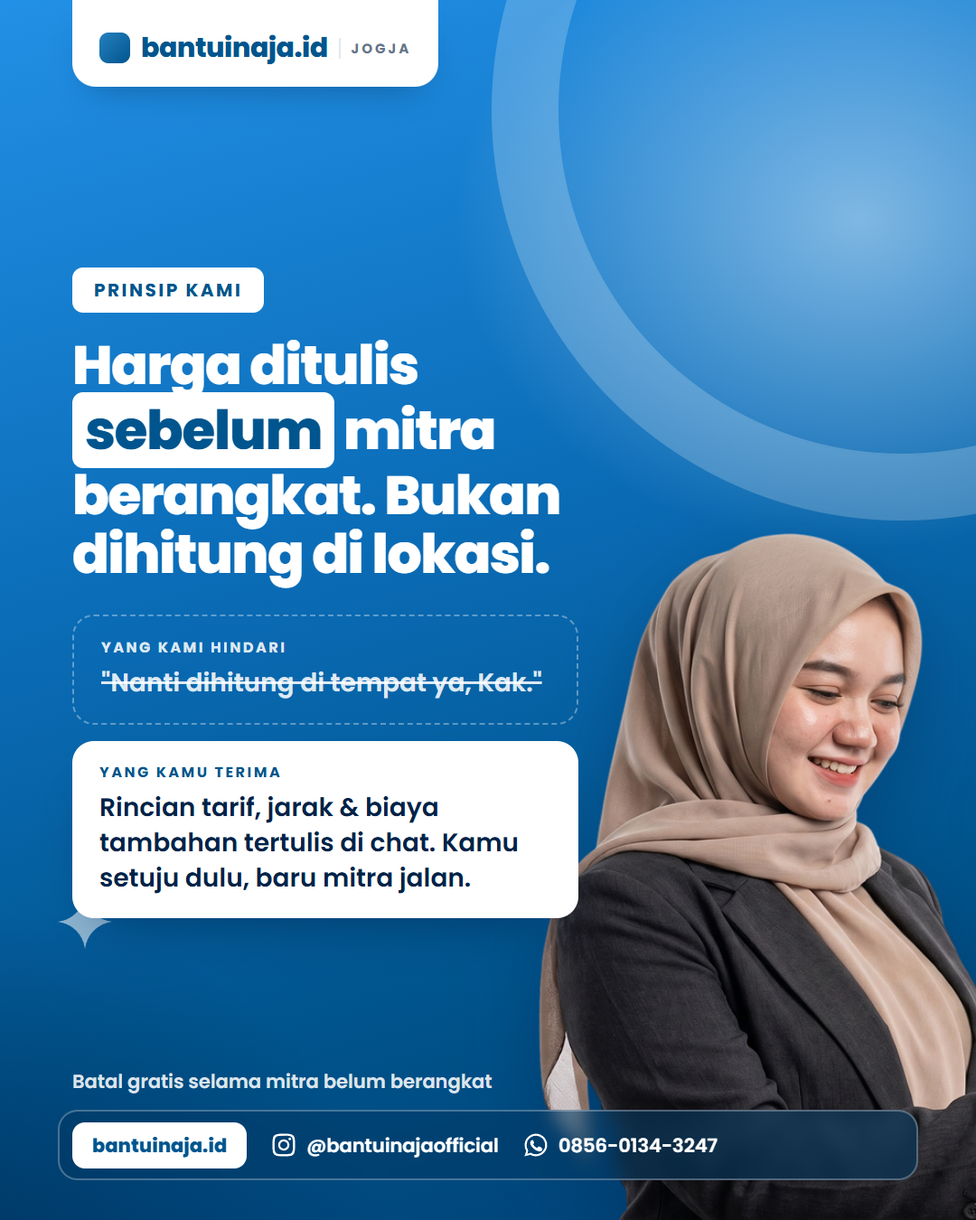
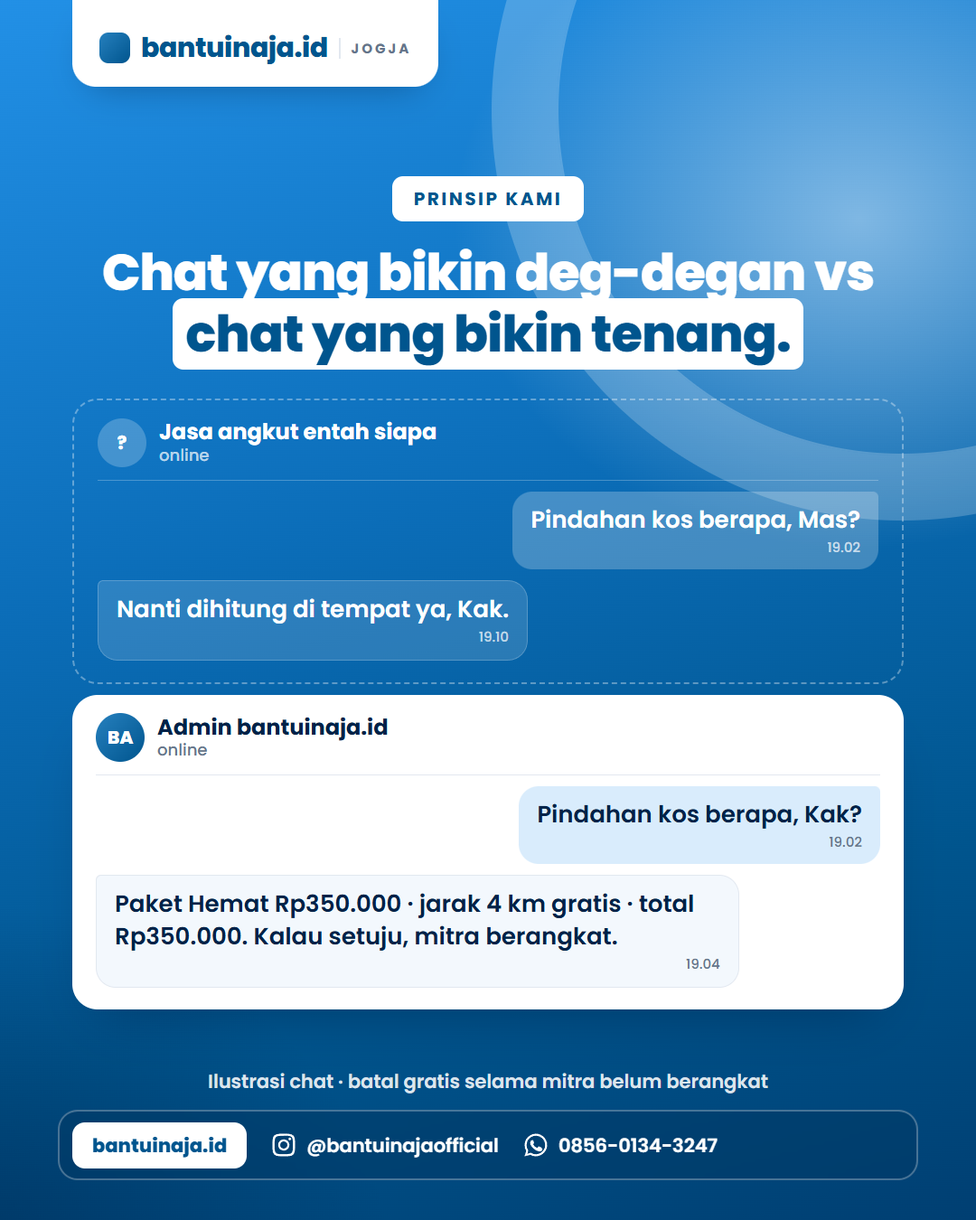
Adapt November feed to Lalamove content patterns; add 1-slide loker
- Replace post 02 with a relatable chat meme and post 13 with a
  comment poll; old versions kept as _cadangan backups
- Redesign post 09 as a two-chat comparison
- Shorten all captions with a comment prompt and #bantuinaja first
- Add riset-lalamove.md and a README section on what was adopted
- Add single-slide freelance recruitment post (_ekstra_Loker-Mitra-1-Slide)

diff --git a/bantuinaja/design/feed.html b/bantuinaja/design/feed.html
@@ -117,6 +117,42 @@
   .promo-code { margin-top: 26px; align-self: center; border: 3px dashed var(--line); border-radius: 18px; padding: 14px 26px; font-size: 25px; font-weight: 600; }
   .promo-code b { color: var(--sky); letter-spacing: 3px; }
 
+  /* mockup chat WhatsApp (format relatable & perbandingan, ide dari pola konten Lalamove) */
+  .chat-label { margin-top: 26px; font-size: 24px; font-weight: 700; letter-spacing: 2px; text-transform: uppercase; color: var(--soft); text-align: left; }
+  .chat { margin-top: 12px; background: #fff; color: var(--navy); border-radius: 28px; padding: 20px 26px 24px; box-shadow: 0 30px 60px -30px rgba(0,34,72,.55); display: flex; flex-direction: column; gap: 12px; text-align: left; }
+  .white .chat { border: 2px solid #E2E8F0; }
+  .chat .hd { display: flex; align-items: center; gap: 14px; padding-bottom: 14px; border-bottom: 1.5px solid #E2E8F0; }
+  .chat .av { width: 54px; height: 54px; border-radius: 50%; flex: none; background: linear-gradient(135deg, var(--blue-2), var(--blue)); color: #fff; display: grid; place-items: center; font-weight: 800; font-size: 20px; }
+  .chat .nm { font-size: 24px; font-weight: 700; line-height: 1.2; }
+  .chat .st { display: block; font-size: 18px; font-weight: 500; color: var(--muted-d); }
+  .msg { max-width: 82%; font-size: 26px; font-weight: 600; line-height: 1.38; padding: 14px 20px; border-radius: 22px; }
+  .msg time { display: block; text-align: right; font-size: 15px; font-weight: 500; color: var(--muted-d); margin-top: 2px; }
+  .msg.in { align-self: flex-start; background: var(--ice); border: 1.5px solid #E2E8F0; border-top-left-radius: 6px; }
+  .msg.out { align-self: flex-end; background: var(--sky); border-top-right-radius: 6px; }
+  h2 + .chat { margin-top: 34px; }
+  .slide:has(.chat)::after, .slide:has(.vote)::after, .slide:has(.roles)::after { display: none; }
+  .chat.ghost { background: transparent; box-shadow: none; border: 2.5px dashed rgba(255,255,255,.35); color: #fff; }
+  .chat.ghost .hd { border-bottom-color: rgba(255,255,255,.25); }
+  .chat.ghost .av { background: rgba(255,255,255,.22); }
+  .chat.ghost .st, .chat.ghost time { color: rgba(255,255,255,.7); }
+  .chat.ghost .msg.in { background: rgba(255,255,255,.14); border-color: rgba(255,255,255,.2); }
+  .chat.ghost .msg.out { background: rgba(255,255,255,.24); }
+
+  /* polling "komen nomornya" (2×2 foto) */
+  .vote { position: relative; margin-top: 34px; display: grid; grid-template-columns: 1fr 1fr; gap: 20px; }
+  .vote .t { position: relative; height: 290px; border-radius: 28px; border: 8px solid #fff; background-size: cover; overflow: hidden; box-shadow: 0 30px 60px -30px rgba(0,34,72,.6); text-align: left; }
+  .vote .t::after { content: ""; position: absolute; inset: 0; background: linear-gradient(180deg, transparent 40%, rgba(0,56,101,.92) 100%); }
+  .vote .t b { position: absolute; z-index: 1; left: 16px; top: 16px; width: 72px; height: 72px; border-radius: 50%; display: grid; place-items: center; background: linear-gradient(135deg, var(--blue-2), var(--blue)); color: #fff; font-size: 38px; font-weight: 800; border: 5px solid #fff; }
+  .vote .t span { position: absolute; z-index: 1; left: 22px; right: 22px; bottom: 18px; color: #fff; font-size: 27px; font-weight: 700; line-height: 1.25; }
+  .vote .credit { z-index: 2; top: 18px; right: 18px; bottom: auto; }
+
+  /* loker 1 slide: kalimat besar + daftar posisi 2 kolom */
+  h1.xl { font-size: 116px; line-height: 1.04; letter-spacing: -3px; }
+  .list-label { margin-top: 44px; font-size: 22px; font-weight: 700; letter-spacing: 3px; text-transform: uppercase; color: var(--soft); }
+  .roles { list-style: none; margin-top: 18px; display: grid; grid-template-columns: 1fr 1fr; gap: 14px; text-align: left; }
+  .roles li { display: flex; align-items: center; gap: 14px; background: var(--card); color: var(--card-fg); font-size: 25px; font-weight: 600; line-height: 1.25; padding: 10px 20px 10px 10px; border-radius: 40px; box-shadow: 0 14px 30px -18px rgba(0,34,72,.55); }
+  .roles li::before { content: "✓"; flex: none; width: 44px; height: 44px; border-radius: 50%; background: linear-gradient(135deg, var(--blue-2), var(--blue)); color: #fff; font-weight: 800; font-size: 22px; display: grid; place-items: center; }
+
   /* footer: catatan + bar kontak */
   .foot-note { position: absolute !important; left: 80px; right: 80px; bottom: 138px; font-size: 21px; font-weight: 600; color: var(--soft); }
   .foot { position: absolute !important; z-index: 6 !important; left: 64px; right: 64px; bottom: 44px; height: 78px; display: flex; align-items: center; gap: 26px; padding: 0 14px; border-radius: 22px; font-size: 21px; font-weight: 600; color: var(--fg); }
@@ -219,14 +255,17 @@ const POSTS = [
      <div class="spacer"></div>${foot("Simpan postingan ini untuk H-7 nanti")}`
   ]},
 
+  // Harga jelas, format "dua chat" (pola perbandingan ala konten Lalamove)
   { id: "s09", theme: "blue", slides: [
     `${header()}<span class="kicker">Prinsip kami</span>
-     <h1 class="md">Harga ditulis <mark>sebelum</mark> mitra berangkat. Bukan dihitung di lokasi.</h1>
-     <div class="compare">
-       <div class="bubble no"><b>YANG KAMI HINDARI</b><span>"Nanti dihitung di tempat ya, Kak."</span></div>
-       <div class="bubble yes"><b>YANG KAMU TERIMA</b>Rincian tarif, jarak & biaya tambahan tertulis di chat. Kamu setuju dulu, baru mitra jalan.</div>
-     </div>
-     <div class="spacer"></div>${foot("Batal gratis selama mitra belum berangkat")}`
+     <h2>Chat yang bikin deg-degan vs <mark>chat yang bikin tenang.</mark></h2>
+     <div class="chat ghost"><div class="hd"><div class="av">?</div><div class="nm">Jasa angkut entah siapa<span class="st">online</span></div></div>
+       <div class="msg out">Pindahan kos berapa, Mas?<time>19.02</time></div>
+       <div class="msg in">Nanti dihitung di tempat ya, Kak.<time>19.10</time></div></div>
+     <div class="chat"><div class="hd"><div class="av">BA</div><div class="nm">Admin bantuinaja.id<span class="st">online</span></div></div>
+       <div class="msg out">Pindahan kos berapa, Kak?<time>19.02</time></div>
+       <div class="msg in">Paket Hemat Rp350.000 · jarak 4 km gratis · total Rp350.000. Kalau setuju, mitra berangkat.<time>19.04</time></div></div>
+     <div class="spacer"></div>${foot("Ilustrasi chat · batal gratis selama mitra belum berangkat")}`
   ]},
 
   { id: "s08", theme: "white", slides: [
@@ -338,7 +377,23 @@ POSTS.push(
      <div class="spacer"></div>${foot("Chat WA " + WA)}`
   ]},
 
+  // Relatable: janji teman vs hari H pindahan (pola meme "ekspektasi vs realita" ala Lalamove)
   { id: "s02", theme: "white", slides: [
+    `${header()}<span class="kicker">Relate nggak?</span>
+     <h2>Janji teman <mark>vs hari H pindahan</mark></h2>
+     <p class="chat-label">Minggu lalu</p>
+     <div class="chat"><div class="hd"><div class="av">TK</div><div class="nm">Teman sekos<span class="st">online</span></div></div>
+       <div class="msg in">Kabarin aja kalau pindahan, pasti aku bantu angkat!<time>21.14</time></div>
+       <div class="msg out">Siap, aku pegang janjimu ya.<time>21.15</time></div></div>
+     <p class="chat-label">Hari H, jam 7 pagi</p>
+     <div class="chat"><div class="hd"><div class="av">TK</div><div class="nm">Teman sekos<span class="st">terakhir dilihat 2 hari lalu</span></div></div>
+       <div class="msg out">Aku udah di depan kos. Lemarinya berat banget...<time>07.02</time></div>
+       <div class="msg out">Halo??<time>07.31</time></div></div>
+     <div class="spacer"></div>${foot("Ilustrasi chat · Tenang, mitra kami datang beneran.")}`
+  ]},
+
+  // cadangan: versi lama postingan 02 (tiga keluhan)
+  { id: "x-masalah", theme: "white", slides: [
     `${header()}<span class="kicker">Masalah → jawaban</span>
      <h2>Tiga keluhan yang paling sering kami dengar:</h2>
      <div class="ps">
@@ -349,7 +404,23 @@ POSTS.push(
      <div class="spacer"></div>${foot(HANDLE)}`
   ]},
 
+  // Interaksi: polling lewat komentar (pola "pilih jagoanmu, komen" ala Lalamove)
   { id: "s13", theme: "blue", slides: [
+    `${header()}<span class="kicker">Komen nomornya</span>
+     <h1 class="md">Urusan mana yang <mark>paling bikin mager?</mark></h1>
+     <div class="vote">
+       <div class="t" style="background-image:url(broll/kardus-lakban-3883980.jpg);background-position:50% 55%"><b>1</b><span>Angkat lemari & kardus</span></div>
+       <div class="t" style="background-image:url(broll/pasar-hijab-7062598.jpg);background-position:60% 40%"><b>2</b><span>Antre pasar subuh</span></div>
+       <div class="t" style="background-image:url(broll/web/web-laundry.jpg);background-position:50% 50%"><b>3</b><span>Setrika cucian numpuk</span></div>
+       <div class="t" style="background-image:url(broll/meja-kerja-5517762.jpg);background-position:50% 50%"><b>4</b><span>Input data Excel</span></div>
+       <span class="credit">Foto ilustrasi</span>
+     </div>
+     <p class="sub">Tulis nomornya di komentar. Boleh lebih dari satu.</p>
+     <div class="spacer"></div>${foot(HANDLE)}`
+  ]},
+
+  // cadangan: testimoni (pakai setelah ada testimoni asli + izin)
+  { id: "x-testimoni", theme: "blue", slides: [
     `${header()}<span class="kicker">Kata pelanggan</span>
      <div class="quote-card"><div class="quote-mark">“</div>
      <p class="quote">Barang banyak, nggak ada teman cowok yang bisa bantu angkat lemari. Datang 2 helper, ramah, sopan, dan <mark>langsung rapi dalam 2 jam.</mark></p>
@@ -440,6 +511,16 @@ const lokerSlides = [
 ];
 POSTS.push({ id: "y-loker", theme: "blue", slides: lokerSlides });
 
+// --- Loker versi 1 slide: hook besar di tengah + daftar posisi ---
+POSTS.push({ id: "z-loker-1slide", theme: "blue", slides: [
+  `${header()}<span class="kicker">Dicari: mitra freelance · Jogja</span>
+   <h1 class="xl">Jam kosongmu <mark>bisa digaji.</mark></h1>
+   <p class="sub">Mahasiswa, ibu rumah tangga, karyawan shift, fresh graduate — ambil tugas pas senggang, bagi hasil 60%.</p>
+   <p class="list-label">Posisi yang dibuka</p>
+   <ul class="roles"><li>Helper angkut & pindahan</li><li>Kebersihan & cuci AC</li><li>Runner jastip pasar</li><li>Cuci & setrika</li><li>Asisten digital & Excel</li><li>Tim sinoman hajatan</li></ul>
+   <div class="spacer"></div>${foot("Daftar gratis lewat link di bio · tanpa deposit")}`
+]});
+
 POSTS.sort((a, b) => a.id.localeCompare(b.id));
 
 // ===== Tata letak per slide (gaya referensi feed) =====
@@ -448,7 +529,7 @@ POSTS.sort((a, b) => a.id.localeCompare(b.id));
 const C = (n) => `broll/cutout/${n}.png`;
 const LAYOUT = {
   s01: { person: "hijab-presentasi", h: 860, x: -224 },
-  s02: { person: "hijab-tunjuk-atas", h: 800, x: -248 },
+  "x-masalah": { person: "hijab-tunjuk-atas", h: 800, x: -248 },
   s03: { person: "hijab-hp", h: 880, x: -164 },
   s04: { person: "pria-angkut", h: 780, x: -106 },
   "s05-1": { full: "broll/tangan-hp-7304257.jpg", pos: "62% 40%" },
@@ -472,7 +553,6 @@ const LAYOUT = {
   "s08-5": { frame: "broll/web/web-digital.jpg", pos: "50% 40%", fh: 270 },
   "s08-6": { frame: "broll/motor-malam-6682922.jpg", pos: "50% 55%", fh: 270 },
   "s08-7": { person: "hijab-hp", h: 820, x: -142 },
-  s09: { person: "hijab-bayar", h: 760, x: -538 },
   s10: { person: "pria-idcard", h: 820, x: -130 },
   s11: { bottom: "hijab-belanja", h: 520 },
   "s12-1": { lineupFill: ["angkut", "teknisi", "pasar", "dapur", "admin"] },

diff --git a/bantuinaja/november-2026/README.md b/bantuinaja/november-2026/README.md
@@ -16,29 +16,47 @@ Preview grid Instagram di akhir bulan: `preview-grid-akhir-november.png`
 | # | Tanggal | Jam (WIB) | Kategori | Konten | Format | Folder |
 |---|---|---|---|---|---|---|
 | 01 | Senin, 2 Nov | 19.00 | **Akuisisi** | Perkenalan Brand | Single image | `01_2026-11-02_Senin_Akuisisi_Perkenalan-Brand` |
-| 02 | Rabu, 4 Nov | 12.00 | **Akuisisi** | Masalah dan Solusi | Single image | `02_2026-11-04_Rabu_Akuisisi_Masalah-dan-Solusi` |
+| 02 | Rabu, 4 Nov | 12.00 | **Akuisisi** | Relatable: Janji Teman vs Hari H | Single image (chat) | `02_2026-11-04_Rabu_Akuisisi_Relatable-Janji-Teman` |
 | 03 | Jumat, 6 Nov | 16.00 | **Sales** | Promo Pembukaan | Single image | `03_2026-11-06_Jumat_Sales_Promo-Pembukaan` |
 | 04 | Senin, 9 Nov | 19.00 | **Sales** | Pindahan Kos | Single image | `04_2026-11-09_Senin_Sales_Pindahan-Kos` |
 | 05 | Rabu, 11 Nov | 12.00 | **Layanan** | Cara Pesan | Carousel 6 slide | `05_2026-11-11_Rabu_Layanan_Cara-Pesan` |
 | 06 | Jumat, 13 Nov | 16.00 | **Freelance** | Rekrut Mitra | Single image | `06_2026-11-13_Jumat_Freelance_Rekrut-Mitra` |
 | 07 | Senin, 16 Nov | 19.00 | **Akuisisi** | Tips Pindahan Kos | Carousel 7 slide | `07_2026-11-16_Senin_Akuisisi_Tips-Pindahan-Kos` |
 | 08 | Rabu, 18 Nov | 12.00 | **Sales** | Katalog Harga | Carousel 7 slide | `08_2026-11-18_Rabu_Sales_Katalog-Harga` |
-| 09 | Jumat, 20 Nov | 16.00 | **Layanan** | Harga Jelas | Single image | `09_2026-11-20_Jumat_Layanan_Harga-Jelas` |
+| 09 | Jumat, 20 Nov | 16.00 | **Layanan** | Harga Jelas (dua chat) | Single image (chat) | `09_2026-11-20_Jumat_Layanan_Harga-Jelas` |
 | 10 | Senin, 23 Nov | 19.00 | **Layanan** | Verifikasi Mitra | Single image | `10_2026-11-23_Senin_Layanan_Verifikasi-Mitra` |
 | 11 | Rabu, 25 Nov | 12.00 | **Sales** | Jastip Pasar | Single image | `11_2026-11-25_Rabu_Sales_Jastip-Pasar` |
 | 12 | Jumat, 27 Nov | 16.00 | **Freelance** | Cara Jadi Mitra | Carousel 6 slide | `12_2026-11-27_Jumat_Freelance_Cara-Jadi-Mitra` |
-| 13 | Senin, 30 Nov | 19.00 | **Layanan** | Testimoni | Single image | `13_2026-11-30_Senin_Layanan_Testimoni` |
+| 13 | Senin, 30 Nov | 19.00 | **Akuisisi** | Interaksi: Komen Nomornya | Single image (polling) | `13_2026-11-30_Senin_Akuisisi_Interaksi-Komen-Nomor` |
 
-Cadangan: `_cadangan_Sinoman-Hajatan` — pakai kalau ada slot yang belum siap.
+Cadangan (pakai kalau ada slot yang belum siap):
+- `_cadangan_Sinoman-Hajatan`
+- `_cadangan_Masalah-dan-Solusi` — versi lama postingan 02
+- `_cadangan_Testimoni` — versi lama postingan 13; pakai setelah ada testimoni asli + izin pelanggan
 
 ### Per minggu
 | Minggu | Senin | Rabu | Jumat | Fokus |
 |---|---|---|---|---|
-| 1 (2–6 Nov) | Perkenalan | Masalah & solusi | Promo pembukaan | Dikenal + dorong pesanan pertama |
+| 1 (2–6 Nov) | Perkenalan | Meme janji teman | Promo pembukaan | Dikenal + dorong pesanan pertama |
 | 2 (9–13 Nov) | Pindahan kos | Cara pesan | Rekrut mitra | Layanan andalan + mulai cari mitra |
 | 3 (16–20 Nov) | Tips pindahan | Katalog harga | Harga jelas | Konten yang di-save + transparansi |
 | 4 (23–27 Nov) | Verifikasi mitra | Jastip pasar | Cara jadi mitra | Rasa aman + layanan kedua |
-| 5 (30 Nov) | Testimoni | — | — | Bukti dari pelanggan |
+| 5 (30 Nov) | Komen nomornya | — | — | Interaksi & bahan konten Desember |
+
+---
+
+## Penyesuaian dari riset Lalamove (29 Okt 2026)
+Lalamove Indonesia (@lalamoveid) adalah layanan on-demand yang mirip (kirim barang, pindahan, ride). Catatan lengkap: `../riset-lalamove.md`. Yang kami ambil:
+
+| Temuan di Lalamove | Penerapan di November |
+|---|---|
+| Postingan hiburan/interaktif dapat respons jauh lebih tinggi daripada poster promo (tebak penampakan Halloween 722 likes; promo 7–26 likes) | 02 diganti meme chat "janji teman vs hari H"; 13 diganti polling "komen nomornya" |
+| Format perbandingan dua sisi ("Orang normal vs Aku") cepat dibaca | 09 diubah jadi dua mockup chat: deg-degan vs tenang |
+| Caption 1–3 baris, ada pertanyaan pancingan komentar, hashtag brand selalu ada | Semua caption dipendekkan, ditutup pertanyaan/ajakan tag, `#bantuinaja` di depan, maks. 3 hashtag |
+| Edukasi praktis tetap jalan ("Checklist sebelum kirim barang", "Spill armada buat pindahan") | 05, 07, 08 dipertahankan (konten yang disimpan) |
+| Sorotan Story rapi: Asuransi, Live Chat CS, Promo, Story From User, Tips & Trik, Coverage Area | Buat Sorotan: **Tarif**, **Cara Pesan**, **Area Layanan**, **Promo**, **Kata Pelanggan**, **Jadi Mitra** |
+
+Yang **tidak** ditiru: warna oranye & gaya poster Lalamove (feed tetap "Biru komersial"), bahasa terlalu heboh ("Cussss"), dan klaim angka besar.
 
 ---
 
@@ -46,9 +64,9 @@ Cadangan: `_cadangan_Sinoman-Hajatan` — pakai kalau ada slot yang belum siap.
 
 | Kategori | Jumlah | Tujuan | Postingan |
 |---|---|---|---|
-| **Akuisisi** | 3 | Menjangkau orang baru & menambah followers | 01, 02, 07 |
+| **Akuisisi** | 4 | Menjangkau orang baru & menambah followers (termasuk 2 postingan hiburan/interaksi) | 01, 02, 07, 13 |
 | **Sales** | 4 | Mendorong orang memesan sekarang | 03, 04, 08, 11 |
-| **Layanan pelanggan** | 4 | Menjelaskan cara kerja & membangun rasa aman | 05, 09, 10, 13 |
+| **Layanan pelanggan** | 3 | Menjelaskan cara kerja & membangun rasa aman | 05, 09, 10 |
 | **Daftar freelance** | 2 | Merekrut mitra baru | 06, 12 |
 
 Jualan langsung hanya 4 dari 13 postingan (±30%). Sisanya memberi info atau membangun rasa percaya, supaya akun tidak terasa seperti brosur.
@@ -70,7 +88,8 @@ Jualan langsung hanya 4 dari 13 postingan (±30%). Sisanya memberi info atau mem
 ## Sebelum 2 November (wajib)
 1. **Link pendaftaran mitra di bio:** pakai `https://bantuin-amber.vercel.app/#daftar-freelance` (sudah dites, langsung ke formulir). Jangan pakai `/daftar-freelance` tanpa `#` — itu 404.
 2. **Setujui promo** (10%, kode HALOJOGJA, s/d 30 Nov) — atau ganti angkanya. Promo muncul di postingan 03, 04, 08, 11.
-3. **Pastikan testimoni** di postingan 13 asli dan sudah ada izin. Lebih baik ganti dengan testimoni pelanggan asli dari bulan November.
+3. **Testimoni** sudah dikeluarkan dari jadwal (jadi cadangan). Kumpulkan testimoni asli + izin selama November untuk dipakai Desember.
+   **Cek contoh angka** di chat postingan 09 (Paket Hemat Rp350.000, jarak 4 km gratis) — pastikan pemilik setuju.
 4. **Konfirmasi nomor WA** yang dipakai: 0856-0134-3247 (website juga mencantumkan 0895-2458-4288).
 5. **Isi link di bio** (pakai Linktree atau sejenisnya):
    - Website (formulir pesan & kalkulator tarif): `https://bantuin-amber.vercel.app/`

diff --git a/bantuinaja/riset-lalamove.md b/bantuinaja/riset-lalamove.md
@@ -1,0 +1,39 @@
+# Riset Konten Instagram — Lalamove Indonesia (@lalamoveid)
+<!-- diamati 29 Okt 2026 dari profil publik (tanpa login, hanya 12 postingan terbaru yang terlihat) -->
+
+## Profil
+- 71,3 rb followers. Bio: "Layanan Delivery & Ride — kirim barang dengan cepat, untuk pergi ke tujuan dengan harga terjangkau", CS hanya via Live Chat, link unduh aplikasi.
+- Sorotan Story: Asuransi · Live Chat CS · Promo Corp · Story From User · Tips & Trik · Coverage Area · Intercity.
+- Frekuensi: hampir setiap hari (12 postingan dalam ±9 hari, 20–28 Okt), sekitar separuh Reels.
+
+## 12 postingan terbaru
+| Tanggal | Format | Isi | Likes / komentar |
+|---|---|---|---|
+| 28 Okt | Reels | Cerita pemenang umrah (driver & user) | 25 / 17 |
+| 28 Okt | Foto | "Dapet driver cuma hitungan detik" | 22 / 18 |
+| 27 Okt | Foto | Kolaborasi brand: diskon 50% kirim barang & 90% Ride | 7 / 1 |
+| 26 Okt | Reels | Halloween: "Hanya orang terpilih yang bisa nemuin 7 penampakan" | **722 / 95** |
+| 26 Okt | Foto | "Match dengan driver dalam hitungan detik" | 15 / 18 |
+| 25 Okt | Foto | Event PropVaganza × rumah123, kode promo | 8 / 18 |
+| 22 Okt | Foto | Meme: "Kesayangan: besok mau berhenti ngopi… / Aku: [foto kucing]" | 26 / 24 |
+| 22 Okt | Reels | Info asuransi untuk bisnis | 60 / 9 |
+| 21 Okt | Reels | "Pilih jagoan Abang Lalamovemu! Gak boleh ganti" — komen pilihan | 75 / 15 |
+| 20 Okt | Foto | Screenshot tweet "In this economy, kepikiran naik Lalamove aja?" → kenalan Lalamove Ride | 75 / **123** |
+| 5 Okt | Foto | "Checklist sebelum kirim barang" (cek alamat & armada) | 17 / 43 |
+| 22 Sep | Reels | "Spill macam-macam armada buat pindahan" | 11 / **154** |
+
+## Pola yang terlihat
+1. **Hiburan & interaksi mengalahkan promo.** Postingan tebak-tebakan/pilih-satu/meme dapat likes dan komentar berlipat dibanding poster diskon.
+2. **Format berulang yang gampang diproduksi:** meme "Kesayangan vs Aku", "Orang normal vs Aku" dengan doodle garis sederhana, screenshot media sosial (social listening), "Spill …", "Checklist sebelum …", "Pilih jagoanmu, komen".
+3. **Hook = pertanyaan atau situasi**, bukan nama layanan: "Lalamove bisa anter manusia????", "Kalo punya 1 jam…".
+4. **Caption pendek** (1–3 baris), bahasa santai, ajakan komen, `#lalamove` selalu ada (+0–2 hashtag lain).
+5. **Visual konsisten:** satu warna brand (oranye) sebagai latar, logo di pojok kanan atas, teks putih tebal; kartu putih minimalis untuk meme. Tokoh = driver berseragam sendiri.
+6. **Kepercayaan lewat edukasi & bukti:** asuransi, checklist, cerita pengguna, pemenang umrah.
+
+## Batasan riset
+- Hanya 12 postingan terbaru yang bisa dilihat tanpa login; angka likes/komentar pada saat diamati (postingan baru belum matang).
+- Komentar tinggi di beberapa postingan bisa dipengaruhi giveaway/kuis yang tidak terlihat di caption.
+
+## Diterapkan ke bantuinaja.id
+Lihat `november-2026/README.md` → "Penyesuaian dari riset Lalamove".
+Ide lanjutan (belum diproduksi): Reels "Spill pilihan bantuan pindahan kos" (helper saja / pickup + helper), Reels tebak "barang yang paling sering ketinggalan saat pindahan", repost Story pelanggan (Sorotan "Kata Pelanggan").

diff --git a/bantuinaja/november-2026/_ekstra_Loker-Mitra-1-Slide/info.md b/bantuinaja/november-2026/_ekstra_Loker-Mitra-1-Slide/info.md
@@ -1,0 +1,26 @@
+# Ekstra · Loker Mitra Freelance (1 slide)
+
+- **Jadwal:** belum dijadwalkan. Cocok untuk slot Freelance (mis. ganti 06 Rekrut Mitra) atau dipasang ulang tiap ada kebutuhan mitra.
+- **Kategori:** Freelance — Merekrut mitra baru
+- **Pillar:** Di balik mitra
+- **Format:** Single image
+- **Tujuan utama:** Pendaftaran mitra (klik link bio) & tag teman
+- **File:** post.png
+- **Caption:** `caption.txt` (tinggal salin-tempel)
+
+## Brief kalimat
+- **Hook utama:** "Jam kosongmu bisa digaji." Singkat dan bisa dibaca dari thumbnail. Yang dijual waktu luang pembaca, bukan "lowongan". Kata "digaji" menjanjikan bayaran tanpa angka yang berlebihan.
+- **Pesan "fleksibel untuk semua":** subjudul menyebut empat kelompok (mahasiswa, ibu rumah tangga, karyawan shift, fresh graduate), jadi semua orang merasa diajak.
+- **Bukti singkat:** "bagi hasil 60%" dan "tanpa deposit" (sesuai materi loker sebelumnya).
+- Alternatif hook kalau mau diganti:
+  1. "Senggang sebentar? Bisa jadi bayaran."
+  2. "Kerja pas sempat. Libur pas mau."
+  3. "Bukan kerja kantoran. Tetap ada pemasukan."
+
+## Alt text
+Desain biru dengan kalimat besar "Jam kosongmu bisa digaji." Di bawahnya: terbuka untuk mahasiswa, ibu rumah tangga, karyawan shift, dan fresh graduate, bagi hasil 60%. Daftar posisi: helper angkut & pindahan, kebersihan & cuci AC, runner jastip pasar, cuci & setrika, asisten digital & Excel, tim sinoman hajatan. Daftar gratis lewat link di bio.
+
+## Catatan sebelum posting
+- **Tim sinoman hajatan** tidak ada di carousel loker 9 slide. Posisi ini ditambahkan karena sinoman termasuk layanan bantuinaja. Konfirmasi ke pemilik bahwa posisi ini memang dibuka.
+- **Teman Jalan** sengaja tidak dicantumkan. Tanpa penjelasan "strict platonic", di daftar singkat posisi ini bisa disalahartikan.
+- Link bio: `https://bantuin-amber.vercel.app/#daftar-freelance` (tanpa `#` = 404).

diff --git a/bantuinaja/november-2026/09_2026-11-20_Jumat_Layanan_Harga-Jelas/info.md b/bantuinaja/november-2026/09_2026-11-20_Jumat_Layanan_Harga-Jelas/info.md
@@ -3,10 +3,14 @@
 - **Jadwal:** Jumat, 20 November 2026 · **16.00 WIB**
 - **Kategori:** Layanan — Menjelaskan cara kerja layanan & membangun rasa aman pelanggan
 - **Pillar:** Harga jelas di depan (signature)
-- **Format:** Single image
+- **Format:** Single image (mockup dua chat)
 - **Tujuan utama:** Kepercayaan / komentar
 - **File:** post.png
 - **Caption:** `caption.txt` (tinggal salin-tempel)
 
 ## Alt text
-Desain navy "Harga ditulis sebelum mitra berangkat. Bukan dihitung di lokasi." dengan perbandingan kalimat yang dihindari dan yang diterima pelanggan.
+Desain biru "Chat yang bikin deg-degan vs chat yang bikin tenang." berisi dua mockup chat. Chat pertama: "Pindahan kos berapa, Mas?" dijawab "Nanti dihitung di tempat ya, Kak." Chat kedua dengan admin bantuinaja.id: pertanyaan yang sama dijawab dengan rincian "Paket Hemat Rp350.000, jarak 4 km gratis, total Rp350.000. Kalau setuju, mitra berangkat."
+
+## Catatan
+- Chat adalah **ilustrasi** (tertulis di slide). Angka di chat admin adalah contoh dengan asumsi pesanan masuk Paket Hemat dan jarak di bawah 5 km — sesuai daftar tarif di website. Konfirmasi ke pemilik bahwa contoh ini tidak menyesatkan.
+- Pola dari Lalamove: format perbandingan dua sisi yang cepat dibaca.

diff --git a/bantuinaja/november-2026/13_2026-11-30_Senin_Akuisisi_Interaksi-Komen-Nomor/info.md b/bantuinaja/november-2026/13_2026-11-30_Senin_Akuisisi_Interaksi-Komen-Nomor/info.md
@@ -1,0 +1,18 @@
+# 13 · Interaksi: Komen Nomornya
+
+- **Jadwal:** Senin, 30 November 2026 · **19.00 WIB**
+- **Kategori:** Akuisisi — Menjangkau orang baru & menambah followers (lewat komentar)
+- **Pillar:** Hidup anak kos Jogja
+- **Format:** Single image (polling 4 pilihan)
+- **Tujuan utama:** Komentar
+- **File:** post.png
+- **Caption:** `caption.txt` (tinggal salin-tempel)
+- **Pola yang ditiru dari Lalamove:** "Pilih jagoanmu, komen nomornya" — postingan interaktif Lalamove mendapat komentar jauh lebih banyak daripada poster promo.
+
+## Alt text
+Desain biru "Urusan mana yang paling bikin mager?" dengan empat foto bernomor: 1 angkat lemari & kardus, 2 antre pasar subuh, 3 setrika cucian numpuk, 4 input data Excel. Ajakan menulis nomor di komentar.
+
+## Catatan
+- Balas setiap komentar dengan layanan yang cocok (mis. "Nomor 2? Ada jastip pasar, Rp30.000 + Rp5.000/item"). Jangan menempel jualan di setiap balasan.
+- Hasil terbanyak bisa jadi bahan postingan pertama Desember.
+- Postingan testimoni yang sebelumnya ada di slot ini dipindah ke `_cadangan_Testimoni` sampai ada testimoni asli + izin pelanggan.

diff --git a/bantuinaja/november-2026/02_2026-11-04_Rabu_Akuisisi_Relatable-Janji-Teman/info.md b/bantuinaja/november-2026/02_2026-11-04_Rabu_Akuisisi_Relatable-Janji-Teman/info.md
@@ -1,0 +1,17 @@
+# 02 · Relatable: Janji Teman vs Hari H Pindahan
+
+- **Jadwal:** Rabu, 4 November 2026 · **12.00 WIB**
+- **Kategori:** Akuisisi — Menjangkau orang baru & menambah followers
+- **Pillar:** Hidup anak kos Jogja
+- **Format:** Single image (mockup chat)
+- **Tujuan utama:** Share & tag teman (komentar)
+- **File:** post.png
+- **Caption:** `caption.txt` (tinggal salin-tempel)
+- **Pola yang ditiru dari Lalamove:** meme "ekspektasi vs realita" yang relatable, jualan tipis di akhir.
+
+## Alt text
+Desain terang berisi dua mockup chat WhatsApp. Minggu lalu, teman sekos berjanji membantu pindahan. Hari H jam 7 pagi, pesan "Aku udah di depan kos. Lemarinya berat banget..." dan "Halo??" tidak dibalas, status teman "terakhir dilihat 2 hari lalu".
+
+## Catatan
+- Chat ini **ilustrasi**, bukan chat asli (tertulis di slide). Tidak memakai nama orang.
+- Versi lama postingan ini (tiga keluhan + jawaban) disimpan di `_cadangan_Masalah-dan-Solusi`.

diff --git a/bantuinaja/november-2026/_cadangan_Masalah-dan-Solusi/info.md b/bantuinaja/november-2026/_cadangan_Masalah-dan-Solusi/info.md
@@ -1,6 +1,6 @@
-# 02 · Masalah dan Solusi
+# Cadangan · Masalah dan Solusi
 
-- **Jadwal:** Rabu, 4 November 2026 · **12.00 WIB**
+- **Jadwal:** belum dijadwalkan (dulu slot 02, 4 Nov)
 - **Kategori:** Akuisisi — Menjangkau orang baru & menambah followers
 - **Pillar:** Harga jelas di depan
 - **Format:** Single image
@@ -10,3 +10,6 @@
 
 ## Alt text
 Desain terang berisi tiga keluhan pelanggan dan jawabannya masing-masing.
+
+## Catatan
+Diganti oleh postingan relatable "Janji teman vs hari H" karena isinya tumpang-tindih dengan 09 (harga jelas) dan 10 (verifikasi mitra). Pakai bila ada slot kosong.

diff --git a/bantuinaja/november-2026/_cadangan_Testimoni/info.md b/bantuinaja/november-2026/_cadangan_Testimoni/info.md
@@ -1,6 +1,6 @@
-# 13 · Testimoni
+# Cadangan · Testimoni
 
-- **Jadwal:** Senin, 30 November 2026 · **19.00 WIB**
+- **Jadwal:** belum dijadwalkan (dulu slot 13, 30 Nov)
 - **Kategori:** Layanan — Menjelaskan cara kerja layanan & membangun rasa aman pelanggan
 - **Pillar:** Di balik mitra
 - **Format:** Single image
